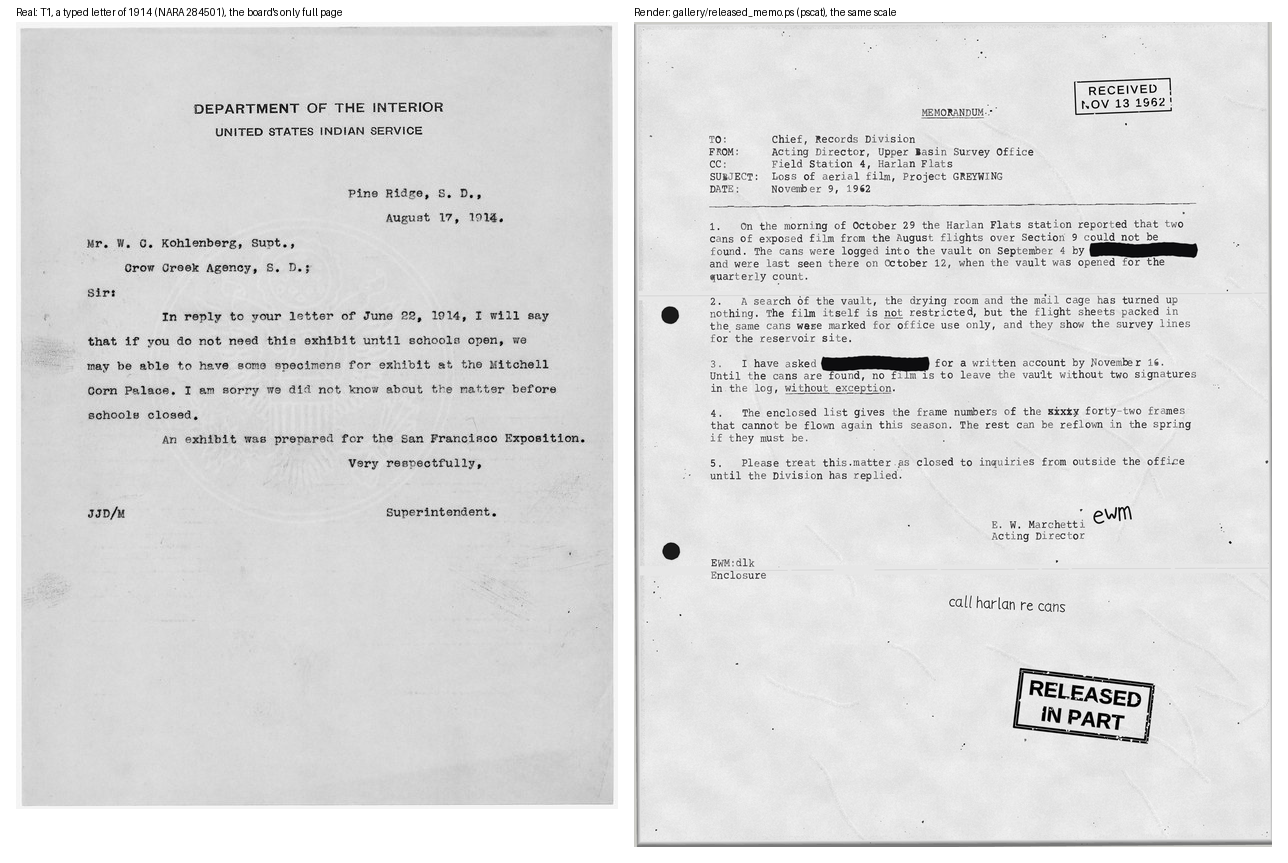
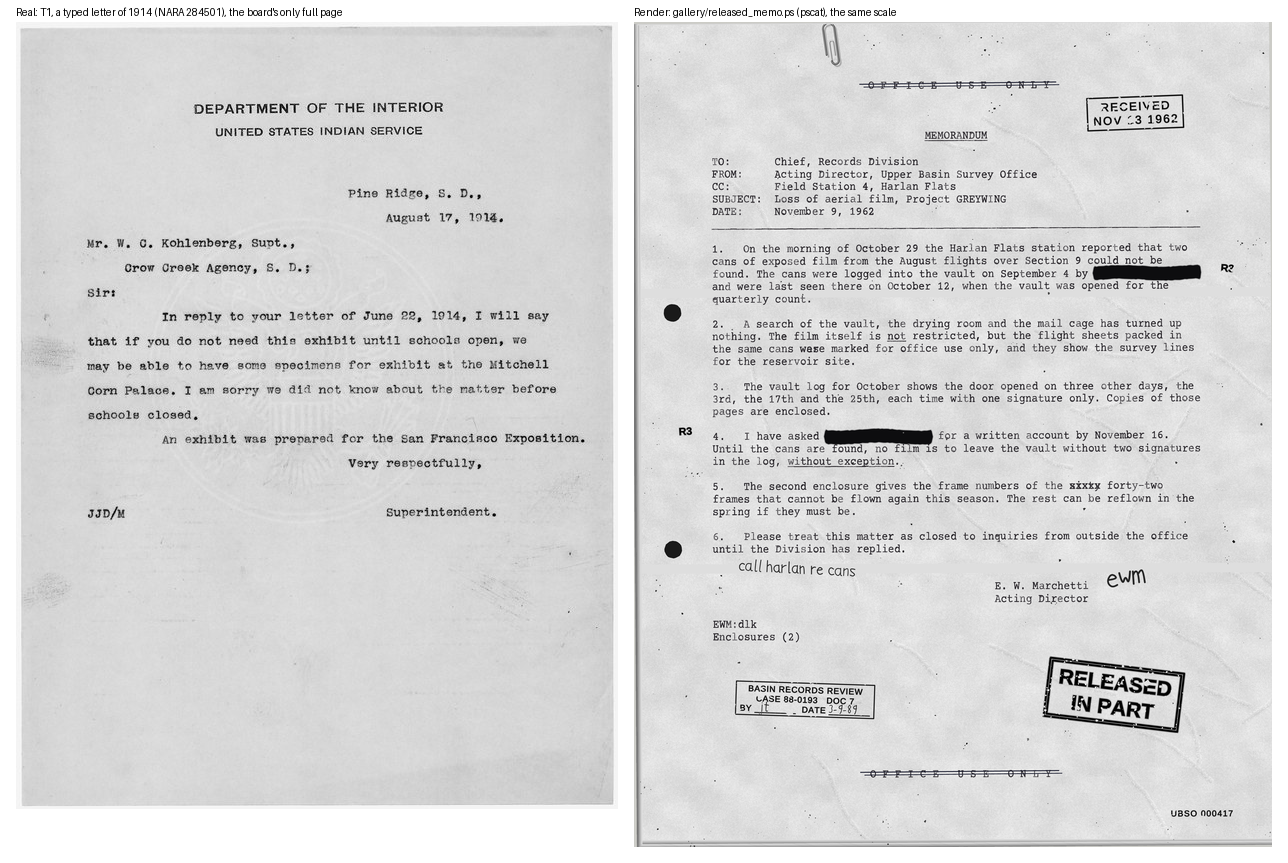
gallery: Released in Part, the final pass: the release apparatus, an even hand, a new blind board (#596)
* gallery: Released in Part, the release apparatus and #590's even hand (#531)

* gallery: Released in Part final pass: render, blind board, docs (#531)

* notes: label the haze-0.5 sweep numbers (#531)

---------

diff --git a/docs/dev/design/typewriter/tools/blind_compare.py b/docs/dev/design/typewriter/tools/blind_compare.py
@@ -1,4 +1,4 @@
-"""Blind comparison of the released-memo gallery piece with real scans (issue #215).
+"""Blind comparison of the released-memo gallery piece with real scans (issues #215, #531).
 
     python3 -I docs/dev/design/typewriter/tools/blind_compare.py [PSCAT]
 
@@ -60,14 +60,17 @@ REAL = [
 ]
 
 # Render strips: (left, top) in points from the page's top left. Body text
-# only, away from the header (invented names would be a tell either way) and
-# the redaction bars.
+# only, away from the header (invented names would be a tell either way), the
+# redaction bars and their margin codes, the marking ruled through, the
+# stamps and the handwriting: no real strip has any of them.
 RENDERED = [
-    (72, 280),
-    (150, 199),
+    (150, 337),
+    (100, 448),
 ]
 
-SHUFFLE_SEED = 215
+# #531 drew the board again for the final piece with a new seed, so #215's
+# published key does not answer it.
+SHUFFLE_SEED = 531
 
 
 def render(pscat, tmp):

diff --git a/notes/531-released-in-part-final-pass.md b/notes/531-released-in-part-final-pass.md
@@ -1,0 +1,90 @@
+## Released in Part, the final pass, and a new blind board (issue #531, 2026-10-15)
+
+The capstone of the typewriter work: `gallery/released_memo.ps` (#215) re-rendered with
+everything that landed since, and made the complement of *The Man from 2026*
+(`gallery/time_traveler_memo.ps`, #590). That piece is a ribbon original that never
+left the file. This one is the declassified copy: reviewed, redacted, stamped and
+photocopied twice. Before and after, at 2x: `notes/531-compare.png`.
+
+## What changed in the piece
+
+- **Even hand.** It uses #590's settings, `/Wear 1.0 /MachineWear 0.4 /StrikeWear 0.5 /Ribbon 0.75`.
+  The user rejected #590's first render and #594 round 1 for very dark letters next to
+  very light ones. The old `/Wear 1.3 /MachineWear 0.6 /Ribbon 0.55` had the same swing.
+- **Machine 26, not 11.** Machine 11 clogs `6@BRq`, which printed "■asin", "SU■JECT"
+  and "■ecords". A probe of the machine table for machines 1 to 40 (the clog fraction
+  above 0) shows 26 clogs only `8` and `q`. The memo types no 8. The `q` of "quarterly"
+  and "inquiries" is filled but still reads. Machine 6 clogs nothing, but a clogged key
+  is one of the traits worth showing. Machine 12 (`@e`) belongs to the sibling.
+- **The release apparatus**, all of it invented:
+  - an OFFICE USE ONLY marking typed at the head and foot with `tw-set` on the same
+    frame (#590's `ttat` pattern, here `rmat`). It is ruled through by two passes of a
+    reviewer's pen, drawn in the content proc so that the copier copies it. Paragraph 2
+    already says the flight sheets were "marked for office use only".
+  - an exemption code "R3" stamped beside each redaction bar, in the margin.
+  - a BASIN RECORDS REVIEW box stamp (case, document number, BY / DATE), with
+    handwritten initials and a date in the blanks.
+  - a document number at the foot (`UBSO 000417`).
+  - the RECEIVED and RELEASED IN PART stamps, kept.
+- **Two copies** (`/Generation 2 /Haze 0.8`): a greyer haze with grain (#466, #474,
+  #528), specks, the lid's shadow, and #450's soft fringe on every mark. The type keeps
+  `/Copies 0.35`, which is `tCopyC` 0.19. #547/#594's erosion is active but light
+  (`tEy` at most 45 x 0.19), and the counters stay open. Letting the type ride up to
+  generation 2 would bring back the fading the user rejected.
+- **A gem clip** (`/Clip 1`, #451), copied with the page.
+- **The text** gains a paragraph about the vault log, which fills the page. The second
+  enclosure is now named in paragraph 5, and the end reads "Enclosures (2)". The
+  margin note moved under paragraph 6, and the initials sit beside the signature.
+- **Not used:**
+  - Multi-page (#448/#589). The gallery shows one still, rendered with `2 2 scale`
+    prepended, which a second page does not keep (#590's reason too).
+  - A red ribbon (#422). On a copy it would have to turn grey anyway, and today it
+    does not: typed ink skips the copier's curve. Filed as #595.
+  - `/Bleed`, `/BleedGap`, `/WornBand` and a raised `/MisStrike`. The default
+    mis-strike rate stays. The others are looks that most real ribbons do not show
+    (notes/468), and they read as noise at a copy's contrast.
+
+## Evenness, measured
+
+A probe takes a 300 dpi render of the body. It finds each word as a run of ink (pixels
+under 170), drops the redaction bars, and averages each word's ink darkness over its
+inked pixels, so the measure does not depend on how much ink a word's shape holds.
+Across the words, the spread of that mean:
+
+| page | words | mean | sd | cv |
+|---|---|---|---|---|
+| before (main, `/Wear 1.3`) | 126 | 0.711 | 0.036 | 0.051 |
+| after | 178 | 0.746 | 0.029 | 0.039 |
+| *The Man from 2026* (an original) | 437 | 0.718 | 0.016 | 0.022 |
+
+A copy adds its own variation: the copy curve acts on each strike's level, and the
+specks add to it. In a sweep at an earlier `/Haze 0.5`
+(cv 0.042 there), `/Copies 0` gave 0.035 and `/StrikeWear 0.3` gave 0.035. By eye, at 2x, 0.3 was indistinguishable from 0.5, so the piece keeps #590's 0.5.
+
+## The blind board
+
+`docs/dev/design/typewriter/tools/blind_compare.py` uses #215's method, unchanged:
+- four real strips (T2, T9, T10, T15) and two from the render;
+- one scale (240 dpi) and one size (720 x 64);
+- greyscale, with the render's strips passed through JPEG at quality 85.
+
+The changes:
+- new render origins for the new layout, body text only, away from the bars, codes,
+  marking, stamps and handwriting;
+- `SHUFFLE_SEED` 531, so #215's published key does not answer the new board.
+
+The key was printed to stdout and is in a collapsed comment on the PR, not in the
+repo. `memo_vs_real.png` was regenerated as well.
+
+## Commands
+
+    { printf '2 2 scale\n'; cat gallery/released_memo.ps; } > /tmp/hi.ps
+    pscat --page 1224x1584 --png gallery/renders/released_memo.png /tmp/hi.ps
+    python3 -I docs/dev/design/typewriter/tools/blind_compare.py
+    gs -q -dNOSAFER -dBATCH -dNOPAUSE -sDEVICE=png16m -r72 -g612x792 \
+       -sOutputFile=gs.png gallery/released_memo.ps </dev/null    # ok
+
+## Filed
+
+- #595: typed ribbon colour is not greyed on a copy. Stamps and notes are greyed; the
+  ink of `tw-type` is not.

diff --git a/gallery/README.md b/gallery/README.md
@@ -94,7 +94,7 @@ Text set glyph by glyph, flowed into shapes, or written by hand.
 | [Ring of Type](https://jeromebanks.github.io/postscript_interpreter/gallery-ring-of-type.html) | [`ring_of_type.ps`](ring_of_type.ps) | Each letter is placed and rotated individually around a circle, using the width of each letter (`stringwidth`) to space it. The ampersand in the middle is drawn from the outline of the character itself (`charpath`), so it can be stroked and filled like any other shape. |
 | [Hundred Lines](https://jeromebanks.github.io/postscript_interpreter/gallery-hundred-lines.html) | [`hundred_lines.ps`](hundred_lines.ps) | The HandScript font draws every letter as a fresh handwritten stroke, so no two copies of the same letter are alike. This piece reuses it wholesale and turns two knobs the font leaves alone: the jitter and the pen width are overridden for each line, so the writing gets sloppier from the first line to the last. |
 | [The Compositor's Proof](https://jeromebanks.github.io/postscript_interpreter/gallery-compositors-proof.html) | [`compositors_proof.ps`](compositors_proof.ps) | A motto is set inside a round medallion with `tfflow` and a hand-written circle boundary procedure. A body paragraph is justified with `tfblock`, and a two-column colophon set with `tfcols` genuinely spills from the first column into the second. |
-| [Released in Part](https://jeromebanks.github.io/postscript_interpreter/gallery-released-memo.html) | [`released_memo.ps`](released_memo.ps) | Typed with `tw-type` on the `/Typewriter` font: an elite manual (`/Pitch 12`) with a worn ribbon, so every strike is its own (the weave shows through the ink, edges feather, some counters clog, a few letters land high or light). The memo header, the tab stops, a strikeover (`<o>was\|were</o>`), an x-out, underscores and the redactions (`<r>..</r>`, drawn by `rel-redact` as marker bars) are markup in one text string. `rel-page` wraps the typing: aged and folded paper, two punch holes, the scanner's tilt and lamp, then one photocopy generation, which turns the paper white, greys the stamps and closes the type up a little. The date stamp, the released-in-part stamp and the handwritten initials and note (`lib/handscript.ps`) are marks over the page, so the copy copies them. The office, people and project are invented. |
+| [Released in Part](https://jeromebanks.github.io/postscript_interpreter/gallery-released-memo.html) | [`released_memo.ps`](released_memo.ps) | Typed with `tw-type` on the `/Typewriter` font: an elite manual (`/Pitch 12`) at an even hand (`/Wear 1.0 /MachineWear 0.4 /StrikeWear 0.5 /Ribbon 0.75`, as *The Man from 2026* settled), so every strike is its own (the weave shows through the ink, edges feather, the `q` key's counter is clogged, a few letters land high or light) and no word fades. The memo header, the tab stops, a strikeover (`<o>was\|were</o>`), an x-out, underscores and the redactions (`<r>..</r>`, drawn by `rel-redact` as marker bars) are markup in one text string; then `tw-set` types the office-use-only marking at the head and foot on the same frame, and a reviewer's ruled pen lines strike it out. `rel-page` wraps it all: aged and folded paper, two punch holes, a gem clip, the scanner's tilt and lamp, then two photocopy generations, which turn the paper to a grey haze with grain, add specks and the lid's shadow, give every mark a soft fringe, and erode the type's thin horizontals a little (`/Copies 0.35` keeps its counters open). The stamps (received, records review, released in part, the exemption codes and the document number) and the handwritten initials, date and note (`lib/handscript.ps`) are marks on the page, so the copier copies them. The office, people, project, review board and exemption codes are invented. |
 | [The Man from 2026](https://jeromebanks.github.io/postscript_interpreter/gallery-time-traveler-memo.html) | [`time_traveler_memo.ps`](time_traveler_memo.ps) | Typed with `tw-type` on the `/Typewriter` font, an elite manual struck at an even hand (`/StrikeWear 0.5`, so the darkness varies without whole letters fading out; every strike is still its own: the weave in the ink, feathered edges, a few light or high letters, the `e` clogged on this machine). The memo-for-the-record header, tab stops, two x-outs, a strikeover (`<o>offcie\|office</o>`) and an underscore are markup in one text string. The same machine then types the control lines in black and, with its ribbon lifted to the red half (`tw-set` with a red `/Ink`, and a `/Bleed` from above that puts the black half into the tops of a few letters), the classification at the head and foot of the sheet. `rel-page` with `/Generation 0` makes it the ribbon original, never copied: aged legal paper, two punch holes, a gem clip, the scanner's tilt and lamp. The registry stamp, a regrading box, the routing initials and the margin note (`lib/handscript.ps`) are marks over the page. The office, people and places are invented; the only real names are in the man's own testimony. |
 
 ### Data visualization

diff --git a/docs/guides/fonts.md b/docs/guides/fonts.md
@@ -249,13 +249,20 @@ A two-page memo through a paged `rel-page` (`examples/released_pages.ps`):
 `docs/dev/design/typewriter/release_vs_real.png` sets crops of it beside the reference
 scans T14, T15 and T10.
 
-The gallery piece *Released in Part* (`gallery/released_memo.ps`, issue #215) is a
-whole page made this way: an elite manual (`/Pitch 12 /Size 11.5`), tabbed
-numbered paragraphs, a strikeover, an x-out, underscores, marker redactions, two
-stamps, initials and a note, through one copy. One tip from it: `rel-page` gives
-the type `/Copies` equal to `/Generation`, which at 1 already fills most
-counters; set a smaller `/Copies` (0.35 there) in the `tw-type` dict to keep a
-first copy's type open while the page still goes through the copier.
+The gallery piece *Released in Part* (`gallery/released_memo.ps`, issues #215 and
+#531) is a whole page made this way, the released copy where *The Man from 2026*
+below is the original that never left the file: an elite manual at the even hand
+that piece settled (`/Wear 1.0 /MachineWear 0.4 /StrikeWear 0.5 /Ribbon 0.75`),
+tabbed numbered paragraphs, a strikeover, an x-out, underscores, marker redactions
+with an exemption code stamped beside each, an office-use-only marking typed at the
+head and foot with `tw-set` and ruled through by a reviewer's pen (drawn in the
+content proc, so the copier copies it), received, records-review and released-in-part
+stamps, a document number, a gem clip, initials and a note, through two copies
+(`/Generation 2 /Haze 0.8`). Every office, code and name on it is invented. One tip
+from it: `rel-page` gives
+the type `/Copies` equal to `/Generation`; set a smaller `/Copies` (0.35 there) in the
+`tw-type` dict to keep the type at a light first-copy loss, counters open and only
+a little of #547's erosion, while the page itself goes through two generations.
 `docs/dev/design/typewriter/tools/blind_compare.py` sets crops of it, unlabelled and
 shuffled, among strips from three reference scans (`docs/dev/design/typewriter/blind_grid.png`), and the
 whole page beside T1 (`docs/dev/design/typewriter/memo_vs_real.png`).

diff --git a/docs/dev/HANDOFF.md b/docs/dev/HANDOFF.md
@@ -827,7 +827,11 @@ renders eight examples in both and compares block-downsampled output).
    #215 shipped the gallery piece `gallery/released_memo.ps` (*Released in
    Part*) and the blind boards `docs/dev/design/typewriter/blind_grid.png` and
    `memo_vs_real.png` (`docs/dev/design/typewriter/tools/blind_compare.py`; the
-   key is in the PR, not the repo); `notes/215-released-memo.md`. #590 added a second
+   key is in the PR, not the repo); `notes/215-released-memo.md`. #531 gave it its
+   final pass: #590's even hand, two copies, an office-use-only marking ruled
+   through, exemption codes, a review stamp, a document number and a gem clip, and
+   redrew the blind board with a new shuffle seed (`notes/531-released-in-part-final-pass.md`;
+   the new key is in a PR comment, not the repo). #590 added a second
    piece, `gallery/time_traveler_memo.ps` (*The Man from 2026*): a never-released
    TOP SECRET original (`/Generation 0`, legal paper), with the red banners and
    control lines typed by `tw-set` after `tw-type` on the same frame
